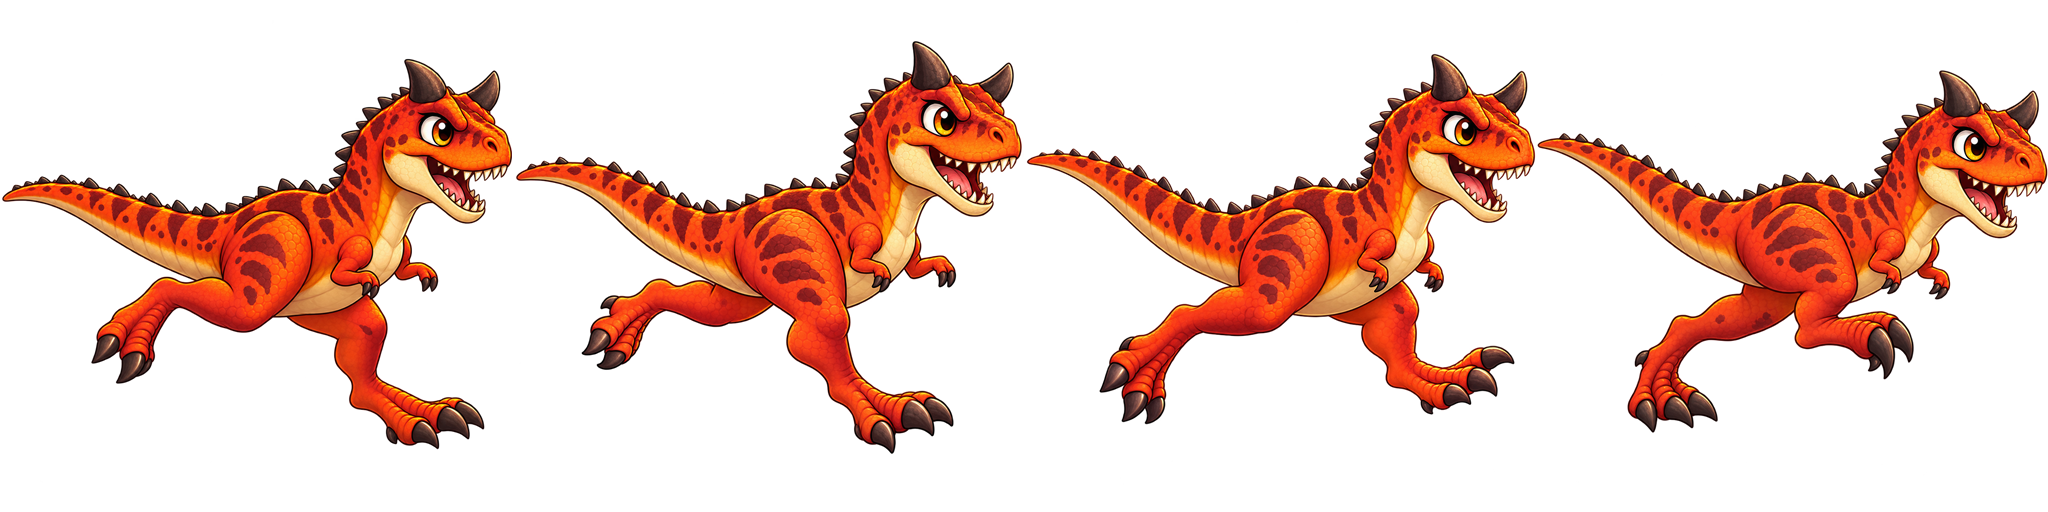
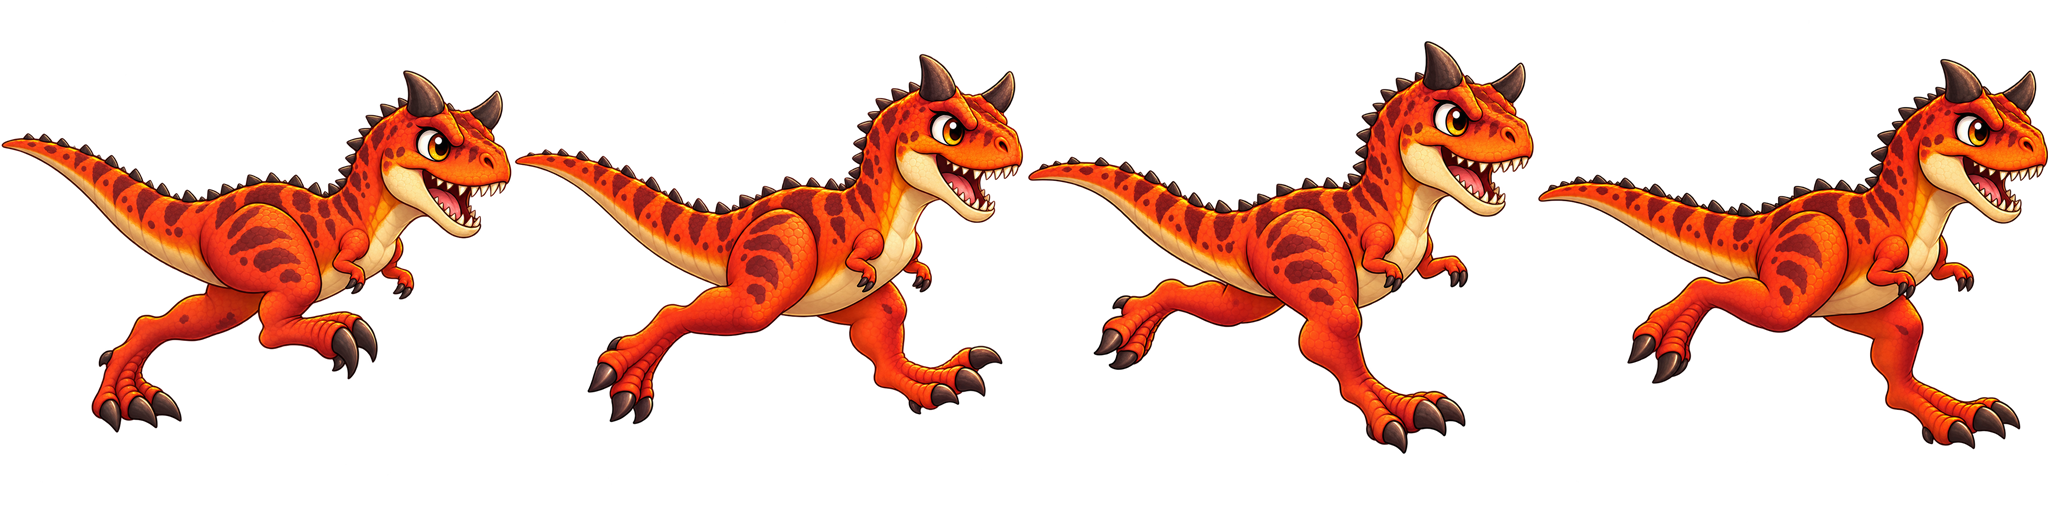
stabilize lava valley minigame

Changed region(s): [[0.0, 0.0938, 1.0, 0.875]]

diff --git a/src/components/screens/LavaPathPrototype.tsx b/src/components/screens/LavaPathPrototype.tsx
@@ -7,7 +7,7 @@ import { getItemConfig } from '../../config/itemConfig';
 import { shopItemImages } from '../../assets/shop';
 import { preloadImages } from '../../utils/preloadImages';
 
-export const LAVA_RUNNER_CONFIG = { gameDuration: LAVA_VALLEY_REWARDS_CONFIG.gameDurationSeconds, introMs: 1800, collectibleIntervalMin: 2600, collectibleIntervalMax: 3900, invincibleMs: 1400, playerX: 27, trackBottom: 12, maxObstacles: 2, checkpointProgress: .5 } as const;
+export const LAVA_RUNNER_CONFIG = { gameDuration: LAVA_VALLEY_REWARDS_CONFIG.gameDurationSeconds, introMs: 1800, collectibleIntervalMin: 2600, collectibleIntervalMax: 3900, invincibleMs: 1400, playerX: 27, trackBottom: 12, footEffectBottom: 20, maxObstacles: 2, checkpointProgress: .5, dashDurationMs: 1000, dashRecoveryMs: 200, dashCooldownMs: 2000, dashSpeedMultiplier: 1.9 } as const;
 export const LAVA_VALLEY_DIFFICULTY = {
   easy: { playerVisualScale: 1.28, obstacleVisualScale: 1.2, runSpeed: 26.5, obstacleSpawnIntervalMin: 3100, obstacleSpawnIntervalMax: 4400, jumpVelocity: 101, gravity: 195, apexHoldMs: 120, playerHitboxScale: .68, obstacleHitboxScale: .72, coyoteTimeMs: 180, jumpBufferMs: 250, jumpGuideEnabled: true, geyserChance: .18 },
   normal: { playerVisualScale: 1.25, obstacleVisualScale: 1.18, runSpeed: 32, obstacleSpawnIntervalMin: 2400, obstacleSpawnIntervalMax: 3600, jumpVelocity: 98, gravity: 215, apexHoldMs: 100, playerHitboxScale: .76, obstacleHitboxScale: .78, coyoteTimeMs: 110, jumpBufferMs: 120, jumpGuideEnabled: false, geyserChance: .35 },
@@ -39,7 +39,6 @@ const LavaValleyPlayer = memo(function LavaValleyPlayer({ intro, invincible, jum
   const stillImage = success ? lavaValleyAssets.player.victory : invincible ? lavaValleyAssets.player.hurt : jumping ? (rising ? lavaValleyAssets.player.jumpUp : lavaValleyAssets.player.fall) : intro ? lavaValleyAssets.player.idle : null;
   return <div className={`lava-runner__dino ${jumping ? 'lava-runner__dino--jump' : ''} ${invincible ? 'lava-runner__dino--hit' : ''}`} style={{ '--lava-jump-y': `${jumpY}%` } as CSSProperties}>
     {stillImage ? <img src={stillImage} alt="용암계곡 카르노타우루스" draggable={false} /> : <span className="lava-runner__run-sprite" role="img" aria-label="달리는 카르노타우루스" />}
-    <img className="lava-runner__shadow" src={lavaValleyAssets.effects.dinosaurContactShadow} alt="" aria-hidden="true" />
   </div>;
 });
 
@@ -52,9 +51,11 @@ export function LavaPathPrototype({ onExit, runId, onFinishRun, onRetry, externa
   const [difficulty, setDifficulty] = useState<Difficulty>('easy'), [checkpointStage, setCheckpointStage] = useState<1 | 2>(1), [pickupFeedback, setPickupFeedback] = useState<PickupFeedback | null>(null);
   const [jumpGuideActive, setJumpGuideActive] = useState(false), [jumpPressed, setJumpPressed] = useState(false), [burst, setBurst] = useState<Burst | null>(null), [speech, setSpeech] = useState<string | null>(null), [combo, setCombo] = useState(false);
   const [assetsReady, setAssetsReady] = useState(false);
+  const [dashing, setDashing] = useState(false), [dashCooldownMs, setDashCooldownMs] = useState(0);
   const [attempt, setAttempt] = useState(0);
   const itemsRef = useRef<RunnerItem[]>([]), healthRef = useRef(3), resultRef = useRef<Result>('playing'), jumpingRef = useRef(false), invincibleUntilRef = useRef(0), pausedRef = useRef(false), introRef = useRef(true);
   const startTimeRef = useRef(0), lastFrameRef = useRef(0), nextObstacleRef = useRef(0), nextCollectibleRef = useRef(0), nextIdRef = useRef(1), pauseStartedRef = useRef(0), checkpointSpawnedRef = useRef(false), checkpointPassedRef = useRef(false);
+  const dashUntilRef = useRef(0), dashReadyAtRef = useRef(0);
   const jumpYRef = useRef(0), jumpVelocityRef = useRef(0), apexHoldUntilRef = useRef(0), difficultyRef = useRef<Difficulty>('easy'), lastGroundedAtRef = useRef(performance.now()), jumpBufferedUntilRef = useRef(0), hasJumpedSinceGroundRef = useRef(false);
   const guidedObstacleIdsRef = useRef(new Set<number>()), highGuideCountRef = useRef(0), jumpGuideTimerRef = useRef<number | null>(null), coinStreakRef = useRef({ count: 0, lastAt: 0, lastComboAt: 0 });
   const coinsRef = useRef(0), shopItemsRef = useRef<MinigameItemReward[]>([]), rareShardsRef = useRef(0), rewardCommittedRef = useRef(false);
@@ -67,16 +68,17 @@ export function LavaPathPrototype({ onExit, runId, onFinishRun, onRetry, externa
   const restartCurrentSession = useCallback((_reason: Extract<LavaValleyEndReason, 'hp_depleted' | 'manual_restart'>) => {
     timersRef.current.forEach(window.clearTimeout); timersRef.current = [];
     itemsRef.current = []; healthRef.current = 3; resultRef.current = 'playing'; jumpingRef.current = false; invincibleUntilRef.current = 0; pausedRef.current = false; introRef.current = true;
-    startTimeRef.current = 0; lastFrameRef.current = 0; nextObstacleRef.current = 0; nextCollectibleRef.current = 0; pauseStartedRef.current = 0; checkpointSpawnedRef.current = false; checkpointPassedRef.current = false;
+    startTimeRef.current = 0; lastFrameRef.current = 0; nextObstacleRef.current = 0; nextCollectibleRef.current = 0; pauseStartedRef.current = 0; checkpointSpawnedRef.current = false; checkpointPassedRef.current = false; dashUntilRef.current = 0; dashReadyAtRef.current = 0;
     jumpYRef.current = 0; jumpVelocityRef.current = 0; apexHoldUntilRef.current = 0; lastGroundedAtRef.current = performance.now(); jumpBufferedUntilRef.current = 0; hasJumpedSinceGroundRef.current = false; guidedObstacleIdsRef.current.clear(); highGuideCountRef.current = 0;
     coinsRef.current = 0; rareShardsRef.current = 0; shopItemsRef.current = []; rewardCommittedRef.current = false; shopDropPlanRef.current = createLavaValleyShopDropPlan(); spawnedShopDropIdsRef.current.clear(); coinStreakRef.current = { count: 0, lastAt: 0, lastComboAt: 0 };
-    setItems([]); setCoins(0); setRareShards(0); setShopItemCount(0); setHealth(3); setTimeLeft(LAVA_RUNNER_CONFIG.gameDuration); setJumping(false); setJumpY(0); setInvincible(false); setPaused(false); setResult('playing'); setShowResult(false); setFinishStep(0); setCommittedRewards(null); setCheckpointStage(1); setPickupFeedback(null); setJumpGuideActive(false); setJumpPressed(false); setBurst(null); setSpeech(null); setCombo(false); setIntro(true); setAttempt((value) => value + 1);
+    setItems([]); setCoins(0); setRareShards(0); setShopItemCount(0); setHealth(3); setTimeLeft(LAVA_RUNNER_CONFIG.gameDuration); setJumping(false); setJumpY(0); setInvincible(false); setPaused(false); setResult('playing'); setShowResult(false); setFinishStep(0); setCommittedRewards(null); setCheckpointStage(1); setPickupFeedback(null); setJumpGuideActive(false); setJumpPressed(false); setBurst(null); setSpeech(null); setCombo(false); setDashing(false); setDashCooldownMs(0); setIntro(true); setAttempt((value) => value + 1);
   }, []);
 
-  const startJump = useCallback(() => { const preset = LAVA_VALLEY_DIFFICULTY[difficultyRef.current]; jumpingRef.current = true; hasJumpedSinceGroundRef.current = true; jumpBufferedUntilRef.current = 0; apexHoldUntilRef.current = 0; jumpVelocityRef.current = preset.jumpVelocity; setJumping(true); showBurst('jump', LAVA_RUNNER_CONFIG.playerX, 7); }, [showBurst]);
+  const startJump = useCallback(() => { const preset = LAVA_VALLEY_DIFFICULTY[difficultyRef.current]; jumpingRef.current = true; hasJumpedSinceGroundRef.current = true; jumpBufferedUntilRef.current = 0; apexHoldUntilRef.current = 0; jumpVelocityRef.current = preset.jumpVelocity; setJumping(true); showBurst('jump', LAVA_RUNNER_CONFIG.playerX - 1, LAVA_RUNNER_CONFIG.footEffectBottom); }, [showBurst]);
   const jump = useCallback(() => { if (resultRef.current !== 'playing' || pausedRef.current || introRef.current) return; const now = performance.now(), preset = LAVA_VALLEY_DIFFICULTY[difficultyRef.current]; const canUseCoyoteTime = !hasJumpedSinceGroundRef.current && now - lastGroundedAtRef.current <= preset.coyoteTimeMs; if (!jumpingRef.current || canUseCoyoteTime) { startJump(); return; } jumpBufferedUntilRef.current = now + preset.jumpBufferMs; }, [startJump]);
+  const dash = useCallback(() => { const now = performance.now(); if (resultRef.current !== 'playing' || pausedRef.current || introRef.current || now < dashReadyAtRef.current) return; dashUntilRef.current = now + LAVA_RUNNER_CONFIG.dashDurationMs; dashReadyAtRef.current = now + LAVA_RUNNER_CONFIG.dashCooldownMs; setDashing(true); setDashCooldownMs(LAVA_RUNNER_CONFIG.dashCooldownMs); showBurst('jump', LAVA_RUNNER_CONFIG.playerX - 5, LAVA_RUNNER_CONFIG.footEffectBottom); }, [showBurst]);
   const openSettings = () => { if (resultRef.current !== 'playing' || introRef.current) return; pauseStartedRef.current = performance.now(); pausedRef.current = true; setPaused(true); };
-  const closeSettings = () => { const pausedFor = performance.now() - pauseStartedRef.current; startTimeRef.current += pausedFor; nextObstacleRef.current += pausedFor; nextCollectibleRef.current += pausedFor; invincibleUntilRef.current += pausedFor; if (apexHoldUntilRef.current) apexHoldUntilRef.current += pausedFor; lastFrameRef.current = performance.now(); pausedRef.current = false; setPaused(false); };
+  const closeSettings = () => { const pausedFor = performance.now() - pauseStartedRef.current; startTimeRef.current += pausedFor; nextObstacleRef.current += pausedFor; nextCollectibleRef.current += pausedFor; invincibleUntilRef.current += pausedFor; if (dashUntilRef.current) dashUntilRef.current += pausedFor; if (dashReadyAtRef.current) dashReadyAtRef.current += pausedFor; if (apexHoldUntilRef.current) apexHoldUntilRef.current += pausedFor; lastFrameRef.current = performance.now(); pausedRef.current = false; setPaused(false); };
   const chooseDifficulty = (next: Difficulty) => { difficultyRef.current = next; setDifficulty(next); setJumpGuideActive(false); const preset = LAVA_VALLEY_DIFFICULTY[next]; nextObstacleRef.current = performance.now() + randomBetween(preset.obstacleSpawnIntervalMin, preset.obstacleSpawnIntervalMax); };
   const finish = useCallback((next: Exclude<Result, 'playing'>) => { if (resultRef.current !== 'playing') return; resultRef.current = next; itemsRef.current = []; setItems([]); const reason: LavaValleyEndReason = next === 'success' ? 'completed' : 'hp_depleted'; if (shouldCommitLavaValleyRewards(reason) && !rewardCommittedRef.current) { rewardCommittedRef.current = true; const rewards = normalizeLavaValleyRewards({ coins: coinsRef.current, rareFragments: rareShardsRef.current, shopItems: shopItemsRef.current }); setCommittedRewards(onFinishRun(runId, rewards)); } setResult(next); if (next === 'success') { setFinishStep(1); showBurst('clear', 70, 48); later(() => setFinishStep(2), 700); later(() => setShowResult(true), 1500); } else { setCommittedRewards(null); setShowResult(true); } }, [later, onFinishRun, runId, showBurst]);
 
@@ -88,6 +90,7 @@ export function LavaPathPrototype({ onExit, runId, onFinishRun, onRetry, externa
   }, []);
   useEffect(() => { if (!assetsReady) return; const timer = later(() => { introRef.current = false; setIntro(false); const now = performance.now(); startTimeRef.current = now; lastFrameRef.current = now; nextObstacleRef.current = now + 1500; nextCollectibleRef.current = now + 1000; showSpeech('점프 버튼을 눌러 장애물을 피해요!'); }, LAVA_RUNNER_CONFIG.introMs); return () => window.clearTimeout(timer); }, [assetsReady, attempt, later, showSpeech]);
   useEffect(() => { const keyDown = (event: KeyboardEvent) => { if ((event.code === 'Space' || event.code === 'ArrowUp') && !event.repeat) { event.preventDefault(); jump(); } }; window.addEventListener('keydown', keyDown); return () => window.removeEventListener('keydown', keyDown); }, [jump]);
+  useEffect(() => { const keyDown = (event: KeyboardEvent) => { if ((event.code === 'ShiftLeft' || event.code === 'ShiftRight') && !event.repeat) { event.preventDefault(); dash(); } }; window.addEventListener('keydown', keyDown); return () => window.removeEventListener('keydown', keyDown); }, [dash]);
   useEffect(() => () => { if (jumpGuideTimerRef.current) window.clearTimeout(jumpGuideTimerRef.current); timersRef.current.forEach(window.clearTimeout); }, []);
   useEffect(() => {
     let frame = 0;
@@ -99,12 +102,15 @@ export function LavaPathPrototype({ onExit, runId, onFinishRun, onRetry, externa
       const preset = LAVA_VALLEY_DIFFICULTY[difficultyRef.current], elapsedMs = now - startTimeRef.current, remaining = Math.max(0, Math.ceil(LAVA_RUNNER_CONFIG.gameDuration - elapsedMs / 1000)); setTimeLeft((current) => current === remaining ? current : remaining);
       if (!remaining) { finish('success'); return; }
       const delta = Math.min((now - (lastFrameRef.current || now)) / 1000, .04); lastFrameRef.current = now; setInvincible(now < invincibleUntilRef.current);
-      if (jumpingRef.current) { if (now >= apexHoldUntilRef.current) { const previousVelocity = jumpVelocityRef.current; jumpVelocityRef.current -= preset.gravity * delta; if (previousVelocity > 0 && jumpVelocityRef.current <= 0) { jumpVelocityRef.current = -0.01; apexHoldUntilRef.current = now + preset.apexHoldMs; } else jumpYRef.current += jumpVelocityRef.current * delta; } if (jumpYRef.current <= 0) { jumpYRef.current = 0; jumpVelocityRef.current = 0; apexHoldUntilRef.current = 0; jumpingRef.current = false; hasJumpedSinceGroundRef.current = false; lastGroundedAtRef.current = now; setJumping(false); showBurst('landing', LAVA_RUNNER_CONFIG.playerX, 7); if (now <= jumpBufferedUntilRef.current) startJump(); } setJumpY(jumpYRef.current); } else { lastGroundedAtRef.current = now; hasJumpedSinceGroundRef.current = false; }
+      const isDashing = now < dashUntilRef.current; setDashing((current) => current === isDashing ? current : isDashing); const nextDashCooldown = Math.max(0, dashReadyAtRef.current - now); setDashCooldownMs((current) => Math.ceil(current / 100) === Math.ceil(nextDashCooldown / 100) ? current : nextDashCooldown);
+      const recoveryRatio = Math.max(0, Math.min(1, (dashUntilRef.current + LAVA_RUNNER_CONFIG.dashRecoveryMs - now) / LAVA_RUNNER_CONFIG.dashRecoveryMs));
+      const movementMultiplier = isDashing ? LAVA_RUNNER_CONFIG.dashSpeedMultiplier : 1 + (LAVA_RUNNER_CONFIG.dashSpeedMultiplier - 1) * recoveryRatio;
+      if (jumpingRef.current) { if (now >= apexHoldUntilRef.current) { const previousVelocity = jumpVelocityRef.current; jumpVelocityRef.current -= preset.gravity * delta; if (previousVelocity > 0 && jumpVelocityRef.current <= 0) { jumpVelocityRef.current = -0.01; apexHoldUntilRef.current = now + preset.apexHoldMs; } else jumpYRef.current += jumpVelocityRef.current * delta; } if (jumpYRef.current <= 0) { jumpYRef.current = 0; jumpVelocityRef.current = 0; apexHoldUntilRef.current = 0; jumpingRef.current = false; hasJumpedSinceGroundRef.current = false; lastGroundedAtRef.current = now; setJumping(false); showBurst('landing', LAVA_RUNNER_CONFIG.playerX - 1, LAVA_RUNNER_CONFIG.footEffectBottom); if (now <= jumpBufferedUntilRef.current) startJump(); } setJumpY(jumpYRef.current); } else { lastGroundedAtRef.current = now; hasJumpedSinceGroundRef.current = false; }
       if (now >= nextObstacleRef.current) spawnObstacle(now, preset);
       if (now >= nextCollectibleRef.current) spawnCollectible(now);
       spawnScheduledShopItem(elapsedMs / 1000);
       if (!checkpointSpawnedRef.current && elapsedMs >= LAVA_RUNNER_CONFIG.gameDuration * 1000 * LAVA_RUNNER_CONFIG.checkpointProgress && !itemsRef.current.some((item) => isObstacle(item.kind) && item.x > 72)) { checkpointSpawnedRef.current = true; itemsRef.current.push({ id: nextIdRef.current++, kind: 'checkpoint', x: 112, height: 0 }); }
-      itemsRef.current = itemsRef.current.map((item) => ({ ...item, x: item.x - preset.runSpeed * delta })).filter((item) => item.x > -15);
+      itemsRef.current = itemsRef.current.map((item) => ({ ...item, x: item.x - preset.runSpeed * movementMultiplier * delta })).filter((item) => item.x > -15);
       if (preset.jumpGuideEnabled) { const guideTarget = itemsRef.current.find((item) => (isObstacle(item.kind) || (isCollectible(item.kind) && item.height === LAVA_VALLEY_COLLECTIBLE_LANES.high && highGuideCountRef.current < 2)) && item.x > LAVA_RUNNER_CONFIG.playerX && item.x <= LAVA_RUNNER_CONFIG.playerX + 34 && !guidedObstacleIdsRef.current.has(item.id)); if (guideTarget) { guidedObstacleIdsRef.current.add(guideTarget.id); if (isCollectible(guideTarget.kind)) highGuideCountRef.current += 1; setJumpGuideActive(false); requestAnimationFrame(() => setJumpGuideActive(true)); if (jumpGuideTimerRef.current) window.clearTimeout(jumpGuideTimerRef.current); jumpGuideTimerRef.current = window.setTimeout(() => setJumpGuideActive(false), 650); } }
       const removed = new Set<number>();
       for (const item of itemsRef.current) {
@@ -122,22 +128,26 @@ export function LavaPathPrototype({ onExit, runId, onFinishRun, onRetry, externa
   const trackCycle = useMemo(() => progress < 7 ? [lavaValleyAssets.track.start, ...lavaValleyAssets.track.tiles] : progress > 94 ? [...lavaValleyAssets.track.tiles, lavaValleyAssets.track.end] : checkpointStage === 1 && progress > 42 ? [lavaValleyAssets.track.tiles[0], lavaValleyAssets.track.checkpoint, lavaValleyAssets.track.tiles[1], lavaValleyAssets.track.tiles[2]] : [...lavaValleyAssets.track.tiles, lavaValleyAssets.track.tiles[1]], [checkpointStage, progress]);
   const itemImage = (item: RunnerItem) => item.kind === 'rock' ? lavaValleyAssets.obstacles.rock : item.kind === 'geyser' ? lavaValleyAssets.obstacles.geyser : item.kind === 'coin' ? lavaValleyAssets.collectibles.coin : item.kind === 'shopItem' && item.itemId ? shopItemImages[item.itemId] : item.kind === 'shard' ? lavaValleyAssets.collectibles.rareEggShard : lavaValleyAssets.environment.checkpoint;
   const burstImage = burst ? lavaValleyAssets.effects[burst.kind === 'jump' ? 'jumpDust' : burst.kind === 'landing' ? 'landingDust' : burst.kind === 'coin' ? 'coinPickupSparkle' : burst.kind === 'item' ? 'itemPickupSparkle' : burst.kind === 'hurt' ? 'hurtImpact' : burst.kind === 'checkpoint' ? 'checkpointBurst' : 'clearBurst'] : null;
+  const dashDisabled = intro || paused || result !== 'playing';
+  const dashButtonImage = dashDisabled ? lavaValleyAssets.buttons.dashDisabled : dashing ? lavaValleyAssets.buttons.dashPressed : dashCooldownMs > 0 ? lavaValleyAssets.buttons.dashCooldown : lavaValleyAssets.buttons.dashReady;
   const formatTime = (seconds: number) => String(Math.floor(seconds / 60)).padStart(2, '0') + ':' + String(seconds % 60).padStart(2, '0');
 
-  return <section className={`lava-runner ${paused ? 'lava-runner--paused' : ''}`} style={{ '--lava-player-x': `${LAVA_RUNNER_CONFIG.playerX}%`, '--lava-track-bottom': `${LAVA_RUNNER_CONFIG.trackBottom}%`, '--lava-track-duration': `${2.8 * 32 / LAVA_VALLEY_DIFFICULTY[difficulty].runSpeed}s`, '--lava-player-scale': LAVA_VALLEY_DIFFICULTY[difficulty].playerVisualScale, '--lava-obstacle-scale': LAVA_VALLEY_DIFFICULTY[difficulty].obstacleVisualScale } as CSSProperties}>
+  return <section className={`lava-runner ${paused ? 'lava-runner--paused' : ''} ${dashing ? 'lava-runner--dashing' : ''}`} style={{ '--lava-player-x': `${LAVA_RUNNER_CONFIG.playerX}%`, '--lava-track-bottom': `${LAVA_RUNNER_CONFIG.trackBottom}%`, '--lava-track-duration': `${2.8 * 32 / LAVA_VALLEY_DIFFICULTY[difficulty].runSpeed / (dashing ? LAVA_RUNNER_CONFIG.dashSpeedMultiplier : 1)}s`, '--lava-player-scale': LAVA_VALLEY_DIFFICULTY[difficulty].playerVisualScale, '--lava-obstacle-scale': LAVA_VALLEY_DIFFICULTY[difficulty].obstacleVisualScale } as CSSProperties}>
     <img src={lavaValleyAssets.runnerBackground} alt="용암이 흐르는 화산 계곡" className="lava-runner__background" draggable={false} /><div className="lava-runner__shade" />
     <header className="lava-runner__header"><button type="button" className="lava-runner__exit" onClick={onExit}><ChevronLeft /> 지도</button><div className="lava-runner-hud lava-panel-root"><img className="lava-panel-bg" src={lavaValleyAssets.hud.top} alt="" aria-hidden="true" /><div className="lava-panel-overlay"><span className="lava-runner-hud__health" aria-label={`하트 ${health}개`}>{[0, 1, 2].map((slot) => <i key={slot} className={slot < health ? 'is-filled' : ''}>♥</i>)}</span><b className="lava-runner-hud__coin">{coins}</b><b className="lava-runner-hud__rare">{rareShards}</b><b className="lava-runner-hud__time"><span>{formatTime(timeLeft)}</span><small>{Math.round(progress)}%</small></b></div></div><button type="button" className="lava-runner__settings" onClick={openSettings} aria-label="일시정지 및 설정"><img src={lavaValleyAssets.buttons.pauseSettings} alt="" /></button><div className="lava-runner__progress"><i style={{ width: `${progress}%` }} /><span>탐험 {checkpointStage}/2</span></div></header>
-    <main className="lava-runner__playfield"><div className="lava-runner__track"><div className="lava-runner__track-strip">{[...trackCycle, ...trackCycle].map((src, index) => <img key={index} src={src} alt="" aria-hidden="true" />)}</div><img className="lava-runner__track-edge" src={lavaValleyAssets.track.edgeStrip} alt="" aria-hidden="true" /></div>
+    <main className="lava-runner__playfield"><div className="lava-runner__track"><div className="lava-runner__track-strip">{[...trackCycle, ...trackCycle].map((src, index) => <img key={index} src={src} alt="" aria-hidden="true" />)}</div><img className="lava-runner__track-cracks" src={lavaValleyAssets.track.crackOverlay} alt="" aria-hidden="true" /><img className="lava-runner__track-edge" src={lavaValleyAssets.track.edgeStrip} alt="" aria-hidden="true" /></div>
       {progress < 12 && <img className="lava-runner-environment lava-runner-environment--warning" src={lavaValleyAssets.environment.warningSign} alt="장애물 주의" />}
       {items.map((item) => <div key={item.id} className={`lava-runner-item lava-runner-item--${item.kind} ${isCollectible(item.kind) && item.height === LAVA_VALLEY_COLLECTIBLE_LANES.high ? 'lava-runner-item--high' : ''}`} style={{ '--runner-x': `${item.x}%`, '--runner-y': `${item.height}%` } as CSSProperties}><img src={itemImage(item)} alt={item.kind === 'rock' ? '바위 장애물' : item.kind === 'geyser' ? '용암 분출 장애물' : item.kind === 'coin' ? '공룡 코인' : item.kind === 'shopItem' ? (item.label ?? '상점 아이템') + ' 보상' : item.kind === 'shard' ? '희귀 알 조각' : '체크포인트 깃발'} draggable={false} /></div>)}
       <LavaValleyPlayer intro={intro} invincible={invincible} jumping={jumping} jumpY={jumpY} rising={jumpVelocityRef.current >= 0} success={result === 'success'} />
+      <div className="lava-runner-speed-lines" aria-hidden="true"><i /><i /><i /></div>
+      <img className={`lava-runner-ground-shadow ${jumping ? 'is-jumping' : ''} ${dashing ? 'is-dashing' : ''}`} src={lavaValleyAssets.effects.dinosaurContactShadow} alt="" aria-hidden="true" />
       {burst && burstImage && <img key={burst.id} className={`lava-runner-burst lava-runner-burst--${burst.kind}`} style={{ left: `${burst.x}%`, bottom: `${burst.y}%` }} src={burstImage} alt="" aria-hidden="true" onAnimationEnd={() => setBurst((current) => current?.id === burst.id ? null : current)} />}
       {pickupFeedback && <div key={pickupFeedback.id} className={`lava-runner-pickup lava-runner-pickup--${pickupFeedback.kind}`} role="status">{pickupFeedback.label}</div>}
       {speech && <div className="lava-runner-speech lava-panel-root"><img className="lava-panel-bg" src={lavaValleyAssets.events.speechBubble} alt="" /><div className="lava-panel-overlay"><span className="lava-runner-speech__text">{speech}</span></div></div>}
       {combo && <div className="lava-runner-combo"><img src={lavaValleyAssets.events.comboPopup} alt="" /><b>3 콤보!</b></div>}
       {result === 'success' && !showResult && <div className="lava-runner-finish"><img className="lava-runner-finish__gate" src={lavaValleyAssets.environment.raceGateArch} alt="도착 지점" /><img className="lava-runner-finish__portal" src={lavaValleyAssets.environment.goalPortal} alt="클리어 포털" /><img className="lava-runner-finish__chest" src={finishStep < 2 ? lavaValleyAssets.environment.treasureChestClosed : lavaValleyAssets.environment.treasureChestOpen} alt="보물 상자" /></div>}
     </main>
-    <footer className="lava-runner__controls"><button type="button" className="lava-runner__dash" disabled>대시<small>준비 중</small></button><button type="button" className={`lava-runner__jump ${jumpGuideActive ? 'lava-runner__jump--guide' : ''}`} onPointerDown={(event) => { event.preventDefault(); event.currentTarget.setPointerCapture(event.pointerId); setJumpPressed(true); jump(); }} onPointerUp={() => setJumpPressed(false)} onPointerCancel={() => setJumpPressed(false)} onPointerLeave={() => setJumpPressed(false)} aria-label="점프"><img src={jumpPressed ? lavaValleyAssets.buttons.jumpPressed : lavaValleyAssets.buttons.jumpNormal} alt="" /></button></footer>
+    <footer className="lava-runner__controls"><button type="button" className={`lava-runner__dash ${dashing ? 'is-active' : ''}`} disabled={dashCooldownMs > 0 || dashDisabled} onPointerDown={(event) => { event.preventDefault(); dash(); }} aria-label={dashing ? '대시 중' : dashCooldownMs > 0 ? `대시 재사용까지 ${(dashCooldownMs / 1000).toFixed(1)}초` : '대시'}><img src={dashButtonImage} alt="" draggable={false} /><small aria-hidden="true">{!dashing && dashCooldownMs > 0 ? `${(dashCooldownMs / 1000).toFixed(1)}초` : ''}</small></button><button type="button" className={`lava-runner__jump ${jumpGuideActive ? 'lava-runner__jump--guide' : ''}`} onPointerDown={(event) => { event.preventDefault(); event.currentTarget.setPointerCapture(event.pointerId); setJumpPressed(true); jump(); }} onPointerUp={() => setJumpPressed(false)} onPointerCancel={() => setJumpPressed(false)} onPointerLeave={() => setJumpPressed(false)} aria-label="점프"><img src={jumpPressed ? lavaValleyAssets.buttons.jumpPressed : lavaValleyAssets.buttons.jumpNormal} alt="" /></button></footer>
     {!assetsReady && <div className="lava-runner-loading" role="status">모험 준비 중...</div>}
     {assetsReady && intro && <div className="lava-runner-intro" role="status" aria-label="용암계곡 스테이지 시작"><div><img src={lavaValleyAssets.events.levelIntro} alt="STAGE 1 용암계곡" /></div></div>}
     {paused && !externalMainModalOpen && <div className="lava-runner-modal"><section role="dialog" aria-modal="true" aria-label="용암계곡 일시정지" className="lava-runner-pause-panel"><img src={lavaValleyAssets.events.pauseMenu} alt="PAUSE" /><div><button type="button" onClick={closeSettings}>계속하기</button><button type="button" onClick={() => restartCurrentSession('manual_restart')}>처음부터</button><button type="button" onClick={onExit}>지도</button></div><fieldset><legend>난이도</legend>{([['easy','쉬움'],['normal','보통'],['challenge','도전']] as const).map(([value,label]) => <button type="button" key={value} aria-pressed={difficulty === value} onClick={() => chooseDifficulty(value)}>{label}</button>)}</fieldset></section></div>}

diff --git a/src/index.css b/src/index.css
@@ -15,7 +15,8 @@
   background: #d1fae5;
 }
 
-/* Lava Valley: one decoded RUN texture and compositor-driven frame changes. */
+/* Lava Valley: one decoded RUN texture. Its canonical left-to-right order is
+   run_4 -> run_3 -> run_2 -> run_1 for a natural forward run cycle. */
 .lava-runner__run-sprite {
   position: relative;
   z-index: 3;
@@ -27,7 +28,7 @@
   background-position: 0 0;
   background-size: 400% 100%;
   filter: drop-shadow(0 5px 3px rgb(69 10 10 / 45%));
-  animation: lava-carnotaurus-run 420ms steps(4, end) infinite;
+  animation: lava-carnotaurus-run 420ms step-end infinite;
 }
 
 .lava-runner-loading {
@@ -43,7 +44,10 @@
 }
 
 @keyframes lava-carnotaurus-run {
-  to { background-position: 133.333% 0; }
+  0%, 24.999% { background-position: 0 0; }
+  25%, 49.999% { background-position: 33.333% 0; }
+  50%, 74.999% { background-position: 66.667% 0; }
+  75%, 100% { background-position: 100% 0; }
 }
 
 .pet-screen__background,
@@ -2149,6 +2153,32 @@ summary:focus-visible {
   @media (max-width: 480px), (max-height: 760px) {
     .lava-runner__header { padding-top: .2rem; }.lava-runner-hud { width: min(100%, 29rem); }.lava-runner__settings img { width: 2.6rem; }.lava-runner__track { height: clamp(5.6rem, 23vw, 7.5rem); }.lava-runner__dino { width: clamp(6rem, 26vw, 8.5rem); height: clamp(6.5rem, 28vw, 9.2rem); }.lava-runner__jump { min-height: 6.3rem !important; }.lava-runner__jump img { max-height: 6.25rem; }.lava-runner-speech { bottom: 39%; }
   }
+
+  /* Lava Valley playtest polish: responsive dash, grounded effects and joined track layers. */
+  .lava-runner__controls { display: flex; align-items: center; justify-content: center; gap: clamp(.75rem,2.2vw,1.5rem); }
+  .lava-runner__controls button { flex: 0 0 auto; border: 0; padding: .45rem; background: transparent; box-shadow: none; }
+  .lava-runner__dash { position: relative; width: clamp(10.1rem,28vw,13rem); min-height: 0; aspect-ratio: 4 / 3; touch-action: none; }
+  .lava-runner__dash img { width: 100%; height: 100%; object-fit: contain; filter: drop-shadow(0 5px 0 rgb(69 10 10 / 55%)); pointer-events: none; }
+  .lava-runner__dash small { position: absolute; right: 0; bottom: .45rem; left: 0; color: #fff7ed; font-size: clamp(.65rem,2.4vw,.85rem); font-weight: 1000; text-align: center; text-shadow: 0 2px 2px #450a0a; pointer-events: none; }
+  .lava-runner__dash:active:not(:disabled),.lava-runner__dash.is-active { transform: translateY(2px); filter: brightness(1.08); }
+  .lava-runner__dash:disabled { opacity: 1; }
+  .lava-runner__jump { width: clamp(6.4rem,18vw,8rem); padding: .45rem; }
+  .lava-runner__track { bottom: calc(var(--lava-track-bottom) - 1%); height: clamp(6.8rem,26vw,10.4rem); filter: drop-shadow(0 10px 8px rgb(45 12 5 / 42%)); }
+  .lava-runner__track-cracks { position: absolute; right: 0; bottom: 5%; left: 0; z-index: 4; width: 100%; height: 48%; object-fit: cover; object-position: center bottom; opacity: .42; mix-blend-mode: screen; pointer-events: none; }
+  .lava-runner__track-edge { bottom: -4%; height: 46%; object-position: center top; filter: saturate(1.12) drop-shadow(0 5px 4px rgb(69 10 10 / 60%)); }
+  .lava-runner-item--coin { width: clamp(3.1rem,11.6vw,4.65rem); }
+  .lava-runner-ground-shadow { position: absolute; left: var(--lava-player-x); bottom: 19.2%; z-index: 9; width: clamp(5rem,20vw,8.5rem); transform: translateX(-50%); transform-origin: center; opacity: .72; pointer-events: none; transition: transform 90ms linear,opacity 90ms linear; }
+  .lava-runner-ground-shadow.is-jumping { transform: translateX(-50%) scale(.72); opacity: .38; }
+  .lava-runner-ground-shadow.is-dashing { transform: translateX(-58%) scaleX(1.25); opacity: .82; }
+  .lava-runner__dino { transition: opacity .2s,transform 120ms ease-out,filter 120ms ease-out; }
+  .lava-runner--dashing .lava-runner__dino { transform: translateX(calc(-50% + .55rem)) scale(var(--lava-player-scale,1)) rotate(2.5deg); filter: brightness(1.08) drop-shadow(-10px 2px 4px rgb(251 146 60 / 68%)); }
+  .lava-runner-speed-lines { position: absolute; left: calc(var(--lava-player-x) - 13%); bottom: 28%; z-index: 10; width: clamp(4.5rem,18vw,7.5rem); opacity: 0; transform: translateX(-.5rem); pointer-events: none; transition: opacity 80ms linear,transform 180ms ease-out; }
+  .lava-runner-speed-lines i { display: block; height: 3px; margin: .52rem 0; border-radius: 999px; background: linear-gradient(90deg,transparent,#fde68a 38%,#fff7ed); box-shadow: 0 0 4px rgb(251 146 60 / 72%); transform-origin: right; }
+  .lava-runner-speed-lines i:nth-child(1) { width: 76%; margin-left: 24%; }.lava-runner-speed-lines i:nth-child(2) { width: 100%; }.lava-runner-speed-lines i:nth-child(3) { width: 62%; margin-left: 38%; }
+  .lava-runner--dashing .lava-runner-speed-lines { opacity: .9; transform: translateX(.35rem); animation: lava-speed-lines 180ms linear infinite; }
+  .lava-runner-burst--jump,.lava-runner-burst--landing { width: clamp(4rem,15vw,6.5rem); }
+
+  @keyframes lava-speed-lines { 0% { transform: translateX(.35rem) scaleX(.82); } 100% { transform: translateX(-.35rem) scaleX(1); } }
 
   .lava-path-game {
     display: flex;

diff --git a/src/assets/adventure/lava-valley/index.ts b/src/assets/adventure/lava-valley/index.ts
@@ -42,6 +42,10 @@ import rareFragmentPanel from './ui/hud/rare_fragment_panel.png';
 import distanceTimePanel from './ui/hud/distance_time_panel.png';
 import jumpButtonNormal from './ui/buttons/jump_button_normal.png';
 import jumpButtonPressed from './ui/buttons/jump_button_pressed.png';
+import dashButtonReady from './ui/buttons/dash_button_ready.png';
+import dashButtonPressed from './ui/buttons/dash_button_pressed.png';
+import dashButtonCooldown from './ui/buttons/dash_button_cooldown.png';
+import dashButtonDisabled from './ui/buttons/dash_button_disabled.png';
 import pauseSettingsButton from './ui/buttons/pause_settings_button.png';
 import levelIntroPanel from './ui/events/level_intro_panel.png';
 import pauseMenuPanel from './ui/events/pause_menu_panel.png';
@@ -68,7 +72,15 @@ export const lavaValleyTrackAssets = {
 } as const;
 
 export const lavaValleyHudAssets = { top: topHudPanel, health: healthPanel, coin: coinCounterPanel, rareFragment: rareFragmentPanel, distanceTime: distanceTimePanel } as const;
-export const lavaValleyButtonAssets = { jumpNormal: jumpButtonNormal, jumpPressed: jumpButtonPressed, pauseSettings: pauseSettingsButton } as const;
+export const lavaValleyButtonAssets = {
+  jumpNormal: jumpButtonNormal,
+  jumpPressed: jumpButtonPressed,
+  dashReady: dashButtonReady,
+  dashPressed: dashButtonPressed,
+  dashCooldown: dashButtonCooldown,
+  dashDisabled: dashButtonDisabled,
+  pauseSettings: pauseSettingsButton,
+} as const;
 export const lavaValleyEffectAssets = { dinosaurContactShadow, jumpDust, landingDust, coinPickupSparkle, itemPickupSparkle, hurtImpact, checkpointBurst, clearBurst } as const;
 export const lavaValleyEnvironmentAssets = { checkpoint: upgradedCheckpointFlag, warningSign, lavaTorchTotem, magmaCrystalAltar, raceGateArch, goalPortal, treasureChestClosed, treasureChestOpen } as const;
 export const lavaValleyEventUiAssets = { levelIntro: levelIntroPanel, pauseMenu: pauseMenuPanel, resultClear: resultClearPanel, speechBubble: dinoSpeechBubble, comboPopup } as const;
